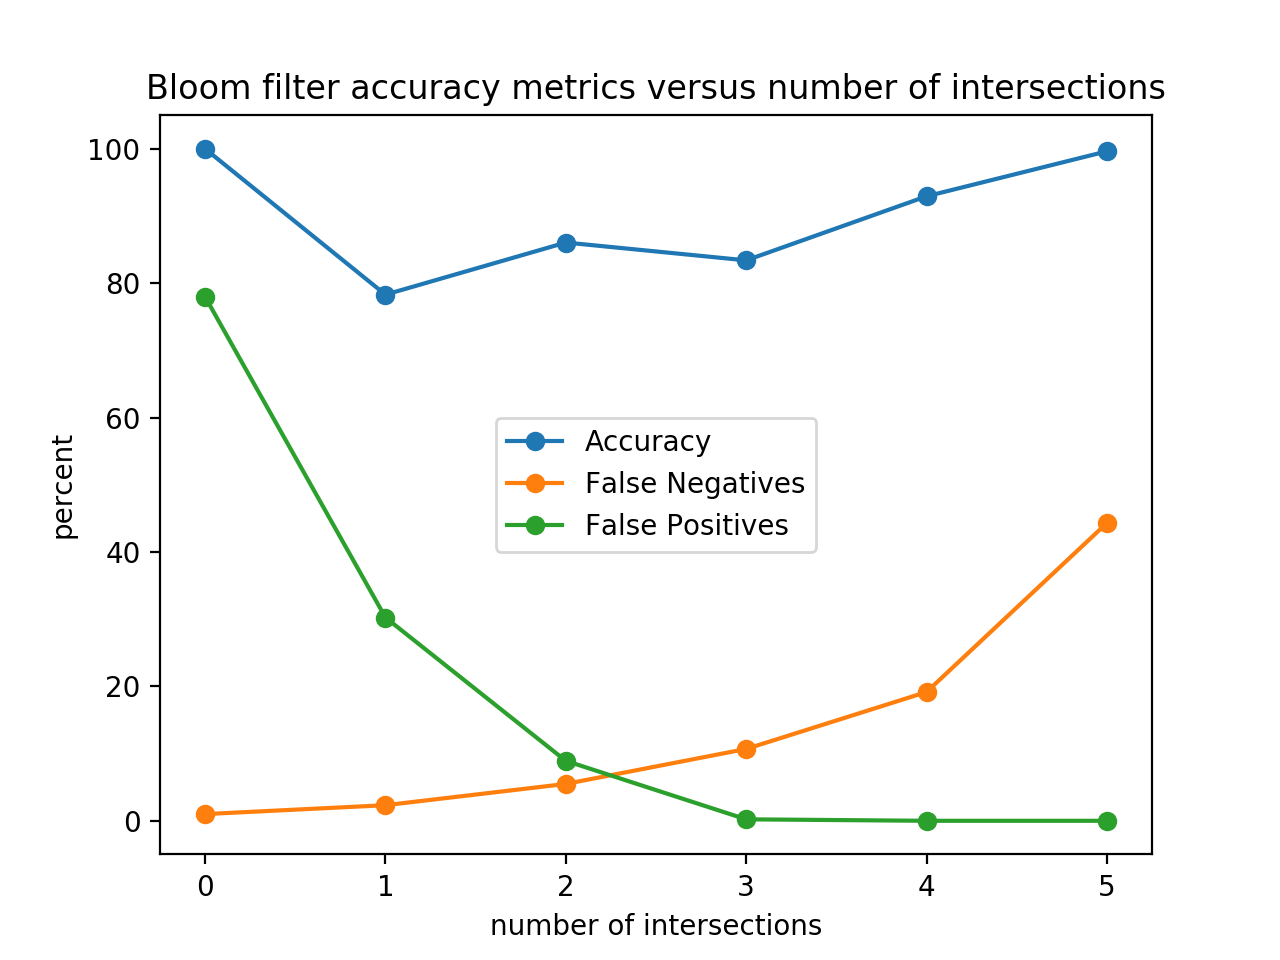
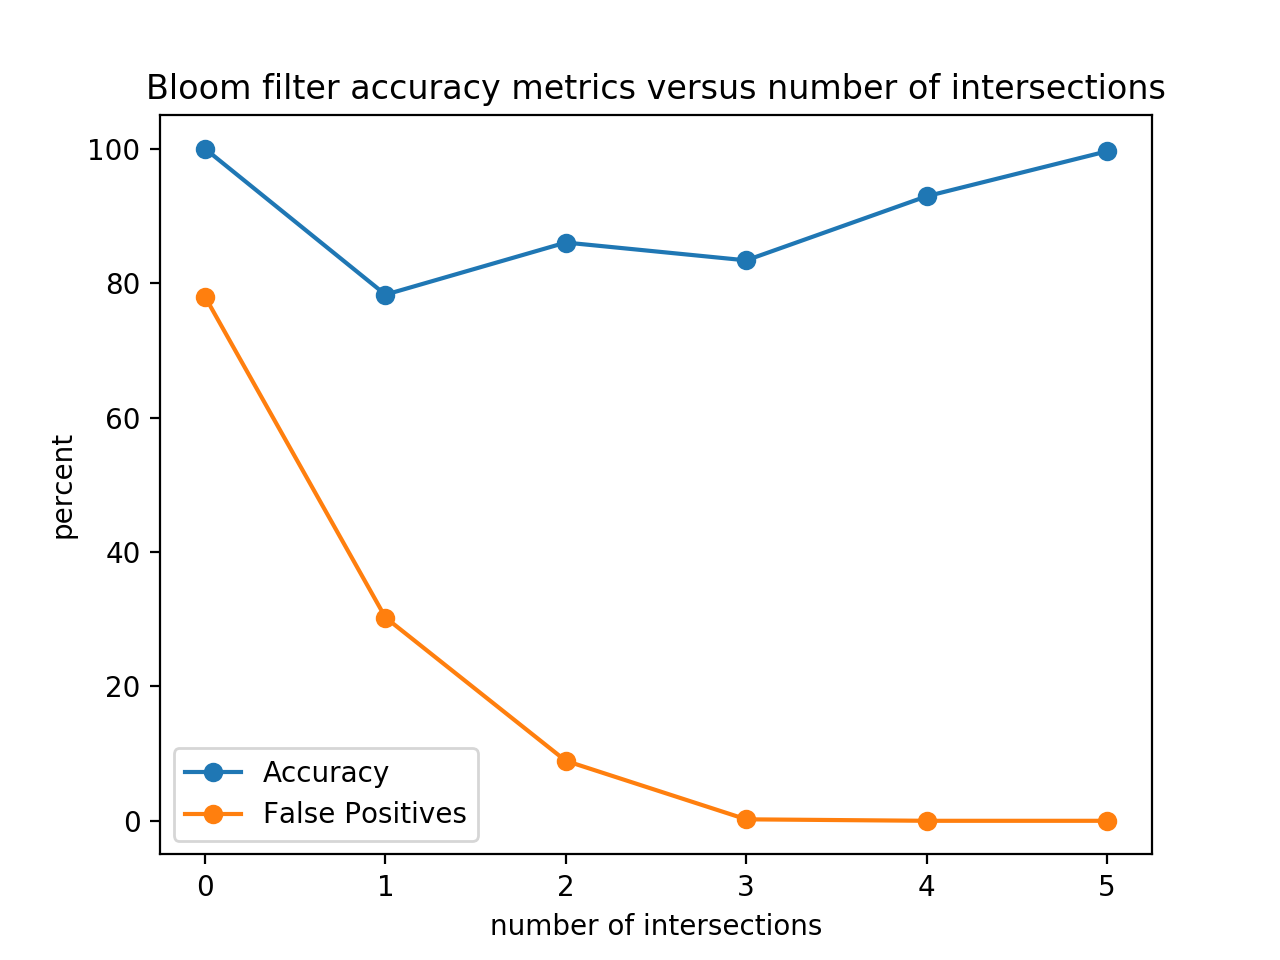
Added e-coli construction time, took away false negatives

diff --git a/src/analysis/data_analysis_hiv.py b/src/analysis/data_analysis_hiv.py
@@ -455,7 +455,7 @@ def accuracyAnalysisHIV():
     bloomFilterFalsePositive = [x * 100 for x in bloomFilterFalsePositive]
     fig3 = plt.figure()
     plt.plot(intersectionX, bloomFilterAccuracy, marker='o', label='Accuracy')
-    plt.plot(intersectionX, bloomFilterFalseNegative, marker='o', label='False Negatives')
+    #plt.plot(intersectionX, bloomFilterFalseNegative, marker='o', label='False Negatives')
     plt.plot(intersectionX, bloomFilterFalsePositive, marker='o', label='False Positives')
     plt.xlabel('number of intersections')
     plt.ylabel('percent')
